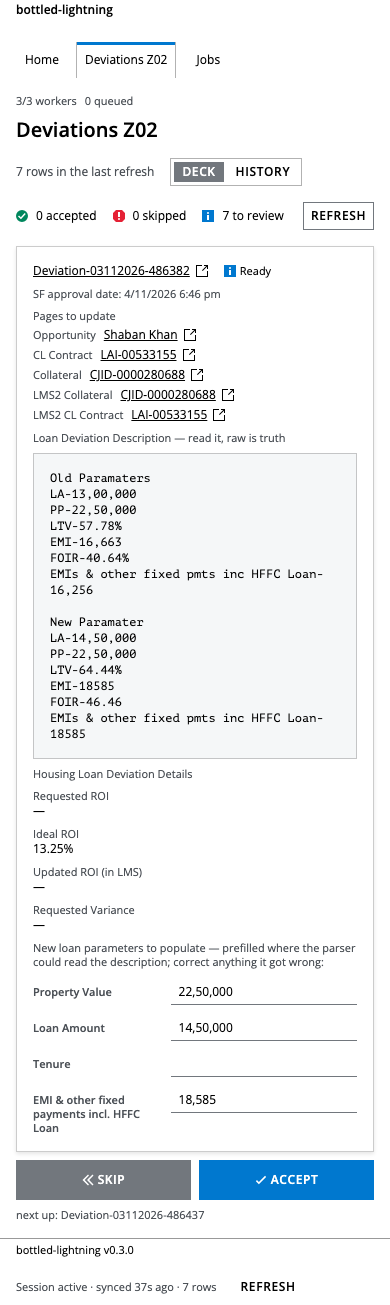
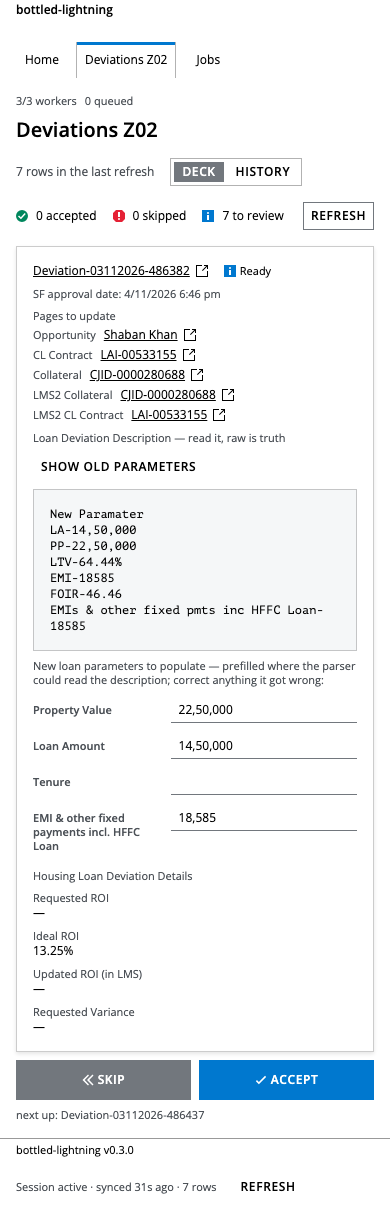
Bound the deck description; fit the desktop deck without page scroll
The full description made the card grow without limit. The deck now shows only
the New parameter block in a bordered Salt card capped at 180px; Show old
parameters reveals the raw text on demand. At 1280x800 the header, card and
actions fit without page scroll and the collapsed description has no internal
scroll (measured: doc 800/800, description 144/144).

- card is two columns on large screens (description + fields | refs + ROI),
  max-width 960; below lg it stacks vertically
- mobile at 390 has no horizontal scroll and keeps the New block fully visible
  (page scrolls vertically, as expected)
- FR v5.9 / frontend design v3.6 updated with the description and fit rules

Checks: 164 backend, 36 frontend, ruff, mypy, tsc, oxlint, build, audit 0.

diff --git a/frontend/src/components/DecisionCard.tsx b/frontend/src/components/DecisionCard.tsx
@@ -6,6 +6,7 @@
  */
 
 import type { JSX } from 'react'
+import { useState } from 'react'
 import {
   Card,
   CardContent,
@@ -14,6 +15,7 @@ import {
   FormFieldLabel,
   GridLayout,
   Input,
+  Button,
   Link,
   StackLayout,
   Text,
@@ -40,6 +42,12 @@ const ROI_FIELDS: { key: string; label: string }[] = [
   { key: 'requested_variance', label: 'Requested Variance' },
 ]
 
+function splitParameters(text: string): { visible: string; hasOld: boolean } {
+  const match = text.match(/(^|\n)(\s*New\s+Param[\s\S]*)$/i)
+  if (match === null) return { visible: text, hasOld: false }
+  return { visible: match[2].trim(), hasOld: text.slice(0, match.index).trim().length > 0 }
+}
+
 interface Props {
   row: ItemRow
   fields: WorkflowFieldView[]
@@ -61,7 +69,9 @@ export function DecisionCard({
   onField,
 }: Props): JSX.Element {
   const ordered = orderedFields(fields)
+  const [showFullDescription, setShowFullDescription] = useState(false)
   const description = detail?.attributes.description ?? null
+  const descriptionParts = description === null ? null : splitParameters(description)
   const recordHref = row.recordUrl ? absoluteUrl(row.recordUrl, listUrl) : null
   const refRank = (kind: string): number => {
     const index = REF_ORDER.indexOf(kind)
@@ -116,60 +126,80 @@ export function DecisionCard({
             </StackLayout>
           ) : null}
 
-          <Text color="secondary" styleAs="label">
-            Loan Deviation Description — read it, raw is truth
-          </Text>
-          <Card variant="secondary" elevation="flat" className="deck-description">
-            {detail === null ? (
-              <Text color="secondary">loading description…</Text>
-            ) : description ? (
-              <Text styleAs="code" className="deck-description-text">
-                {description}
-              </Text>
-            ) : (
-              <Text color="secondary">no description picked yet — run an extraction first</Text>
-            )}
-          </Card>
-
-          <Text color="secondary" styleAs="label">
-            Housing Loan Deviation Details
-          </Text>
-          <GridLayout columns={{ xs: 1, sm: 2 }} gap={1}>
-            {ROI_FIELDS.map((field) => (
-              <StackLayout gap={0} key={field.key}>
+          <GridLayout columns={{ xs: 1, lg: 2 }} gap={2}>
+            <StackLayout gap={1}>
+              <FlexLayout justify="space-between" align="center" gap={1} wrap>
                 <Text color="secondary" styleAs="label">
-                  {field.label}
+                  Loan Deviation Description — read it, raw is truth
                 </Text>
-                <Text>{detail?.attributes[field.key] ?? '—'}</Text>
-              </StackLayout>
-            ))}
-          </GridLayout>
+                {descriptionParts?.hasOld ? (
+                  <Button
+                    appearance="transparent"
+                    onClick={() => setShowFullDescription((current) => !current)}
+                  >
+                    {showFullDescription ? 'Show new only' : 'Show old parameters'}
+                  </Button>
+                ) : null}
+              </FlexLayout>
+              <Card
+                variant="secondary"
+                elevation="flat"
+                className={`deck-description${showFullDescription ? ' deck-description-full' : ''}`}
+              >
+                {detail === null ? (
+                  <Text color="secondary">loading description…</Text>
+                ) : description && descriptionParts ? (
+                  <Text styleAs="code" className="deck-description-text">
+                    {showFullDescription ? description : descriptionParts.visible}
+                  </Text>
+                ) : (
+                  <Text color="secondary">no description picked yet — run an extraction first</Text>
+                )}
+              </Card>
 
-          <Text color="secondary" styleAs="label">
-            New loan parameters to populate — prefilled where the parser could read the
-            description; correct anything it got wrong:
-          </Text>
-          <StackLayout gap={1}>
-            {ordered.map((field) => (
-              <FormField key={field.key} labelPlacement="left">
-                <FormFieldLabel>{field.label}</FormFieldLabel>
-                <Input
-                  value={draftDisplay(field, values[field.key] ?? '')}
-                  inputProps={{
-                    inputMode: field.valueType === 'text' ? undefined : 'numeric',
-                    'aria-label': field.label,
-                    onChange: (event) => {
-                      const raw = event.target.value
-                      onField(
-                        field.key,
-                        field.valueType === 'text' ? raw : raw.replace(/[^\d]/g, ''),
-                      )
-                    },
-                  }}
-                />
-              </FormField>
-            ))}
-          </StackLayout>
+              <Text color="secondary" styleAs="label">
+                New loan parameters to populate — prefilled where the parser could read the
+                description; correct anything it got wrong:
+              </Text>
+              <StackLayout gap={1}>
+                {ordered.map((field) => (
+                  <FormField key={field.key} labelPlacement="left">
+                    <FormFieldLabel>{field.label}</FormFieldLabel>
+                    <Input
+                      value={draftDisplay(field, values[field.key] ?? '')}
+                      inputProps={{
+                        inputMode: field.valueType === 'text' ? undefined : 'numeric',
+                        'aria-label': field.label,
+                        onChange: (event) => {
+                          const raw = event.target.value
+                          onField(
+                            field.key,
+                            field.valueType === 'text' ? raw : raw.replace(/[^\d]/g, ''),
+                          )
+                        },
+                      }}
+                    />
+                  </FormField>
+                ))}
+              </StackLayout>
+            </StackLayout>
+
+            <StackLayout gap={1}>
+              <Text color="secondary" styleAs="label">
+                Housing Loan Deviation Details
+              </Text>
+              <GridLayout columns={{ xs: 1, sm: 2 }} gap={1}>
+                {ROI_FIELDS.map((field) => (
+                  <StackLayout gap={0} key={field.key}>
+                    <Text color="secondary" styleAs="label">
+                      {field.label}
+                    </Text>
+                    <Text>{detail?.attributes[field.key] ?? '—'}</Text>
+                  </StackLayout>
+                ))}
+              </GridLayout>
+            </StackLayout>
+          </GridLayout>
         </StackLayout>
       </CardContent>
     </Card>

diff --git a/frontend/src/index.css b/frontend/src/index.css
@@ -72,7 +72,7 @@
 
 .deck-card-wrap {
   width: 100%;
-  max-width: 640px;
+  max-width: 960px;
   margin: 0 auto;
   transition:
     transform 0.4s ease,
@@ -92,7 +92,7 @@
 
 .deck-bar {
   width: 100%;
-  max-width: 640px;
+  max-width: 960px;
   margin-left: auto;
   margin-right: auto;
 }

diff --git a/docs/frontend-design-deviations.md b/docs/frontend-design-deviations.md
@@ -105,6 +105,7 @@ accepted/skipped/to-review tallies, then Skip and Accept. The header keeps the
 | ready | record link + status, approval date, *Pages to update* (Opportunity, CL, collateral, LMS2), raw description panel, ROI grid, four prefilled editable values | Skip, Accept |
 | needs_review | same card + the failure reason above the description | Skip, Accept |
 | partial values | inputs not present in the New block are empty; no warning | Accept allowed (FR-10.10) |
+| description | New parameter block only in a bordered, capped panel; **Show old parameters** reveals the raw text | decide |
 | editing a value | input shows Indian grouping (amounts) or months; the draft is local until Accept | Skip discards the draft |
 | decision in flight | Skip/Accept disabled until the PATCH + decision finish | — |
 | decision failed | card stays, the server message appears above it | Retry |
@@ -294,14 +295,16 @@ Rules:
   CSS is limited to layout, responsive column hiding and motion.
 - **High density.** Page padding 10/16 px, headings 20/17/14 px, data text 11–12 px,
   layout gaps 8–16 px (not 24–32), table cells 4–5 px, card padding 10–12 px, the deck
-  description block in a bordered Salt Card. The description is shown in full (no
-  internal scroll); the deck grows instead, because copying the New block matters more
-  than a fixed card height.
+  description block in a bordered Salt Card, capped at 180 px. Only the New parameter
+  block is shown by default; **Show old parameters** reveals the raw text (and the page
+  may scroll). The collapsed block never scrolls.
 - **No horizontal page scrolling at 390/768/1280 px.** The shell is border-box; filters
   wrap; the list drops to Status + Deviation at 600 px instead of scrolling sideways.
   Long values wrap (`overflow-wrap: anywhere`), never widen the page.
-- Deck card: Salt `Card elevation="raised"`, max-width 640 px, centred (the legacy
-  width). One card at a time; the next item is named below it, not stacked behind it.
+- Deck card: Salt `Card elevation="raised"`, **max-width 960 px** on large screens
+  (two content columns), full width below `lg`. One card at a time; the next item is
+  named below it, not stacked behind it. At 1280×800 the header, card and actions fit
+  without page scrolling; below `lg` the card stacks and the page scrolls vertically.
   Skip and Accept are full-width halves of the card (40 px tall) so they are the obvious
   action and cannot be confused with a gesture.
 - The exit animation is transform-only (slide left/right + ≤14° rotate) and disabled

diff --git a/docs/FR-deviations.md b/docs/FR-deviations.md
@@ -3,7 +3,7 @@
 | | |
 |---|---|
 | **Status** | Draft for review |
-| **Version** | v5.8 |
+| **Version** | v5.9 |
 | **Date** | 2026-11-04 |
 | **Scope** | Loan deviations workflow only |
 | **Supersedes** | The pre-refactor behaviour in `app/deviations*`, `app/sync.py`, `app/jobs.py` |
@@ -347,6 +347,11 @@ Automate the extraction, review and update of loan deviations from Salesforce, a
   so missing or unparsed values are visible and correctable before a decision. Missing
   values are not an error and carry no warning: only one or two values may need an
   update. Accept persists the card's values as proposals (FR-10.2).
+- **FR-10.11** The raw description is shown compactly: the **New** parameter block is
+  visible by default in a bounded, bordered panel; the Old block is behind an explicit
+  toggle. At 1280×800 the deck (header, card and actions) fits without page scrolling;
+  the description itself never requires scrolling while collapsed. On narrow screens
+  the card stacks vertically and the page may scroll.
 - **FR-10.11** Decisions never gate sync or extraction. An accepted or rejected item is
   still reconciled with the list view like any other.
 
@@ -407,6 +412,11 @@ absence while a `SUBMIT` lease was held.
   submit action? (Default: explicit action; acceptance only queues.) | FR-10.6 |
 
 ## Appendix C — Change log
+
+- **v5.9** — the deck is two columns on large screens (description + fields | refs +
+  ROI), the description shows only the New block by default with the Old block behind a
+  toggle, and the whole deck fits 1280×800 without page scroll. Mobile stacks cleanly
+  with no horizontal scroll.
 
 - **v5.8** — description parsing prefers the New parameter block and never falls back
   to the Old block for a missing field; the card no longer warns about missing values
